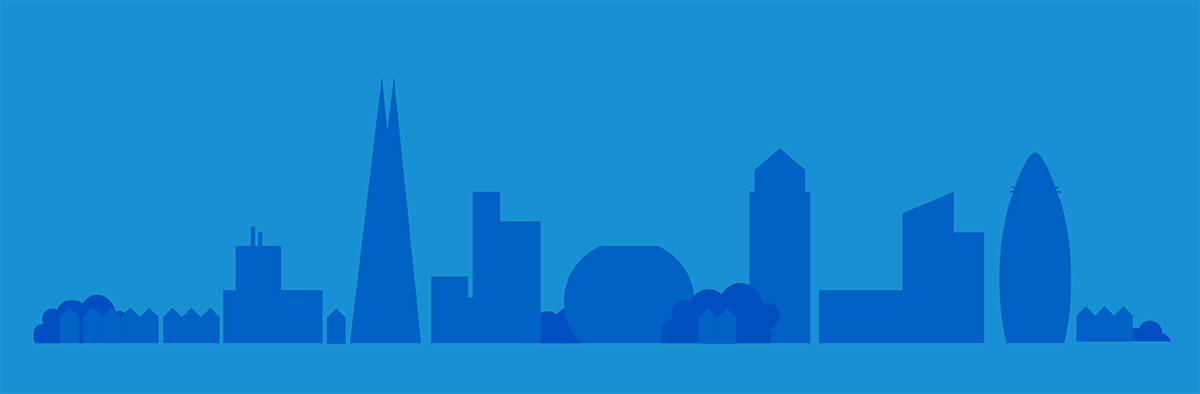
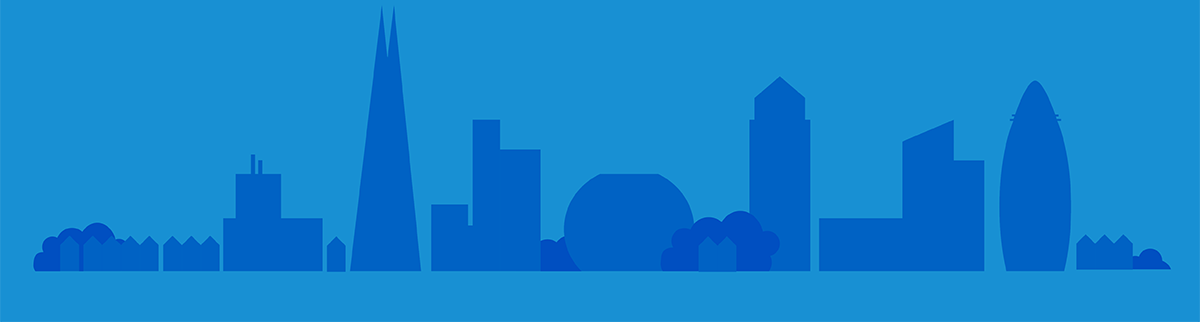
Improve twitter carousel responsiveness.

diff --git a/site/src/site/html/index.html b/site/src/site/html/index.html
@@ -103,7 +103,7 @@
         </section>
     </div>
     <div class="community-opinion">
-        <div id="myCarousel" class="carousel slide" data-ride="carousel">
+        <div id="myCarousel" class="carousel slide" data-ride="false">
             <div class="carousel-inner">
                 <div class="item active">
                     <div class="opinion">
@@ -126,7 +126,7 @@
                     </div>
                 </div>
             </div>
-            <img class="" src="img/city.png">
+            <img class="city-img" src="img/city.png">
             <ol class="carousel-indicators bubble-opinion-list">
                 <li data-target="#myCarousel" data-slide-to="0" class="active"></li>
                 <li data-target="#myCarousel" data-slide-to="1"></li>

diff --git a/site/src/site/assets/css/style.css b/site/src/site/assets/css/style.css
@@ -212,6 +212,20 @@ pre {
     min-height: 300px;
 }
 
+.city-img {
+    width: 100%;
+}
+
+@media (max-width: 1203px) {
+    .carousel-inner {
+        height: 532px;
+    }
+
+    .carousel-indicators {
+        visibility: hidden;
+    }
+}
+
 @media (max-width: 1010px) {
     #band {
         background-size: 68%;
